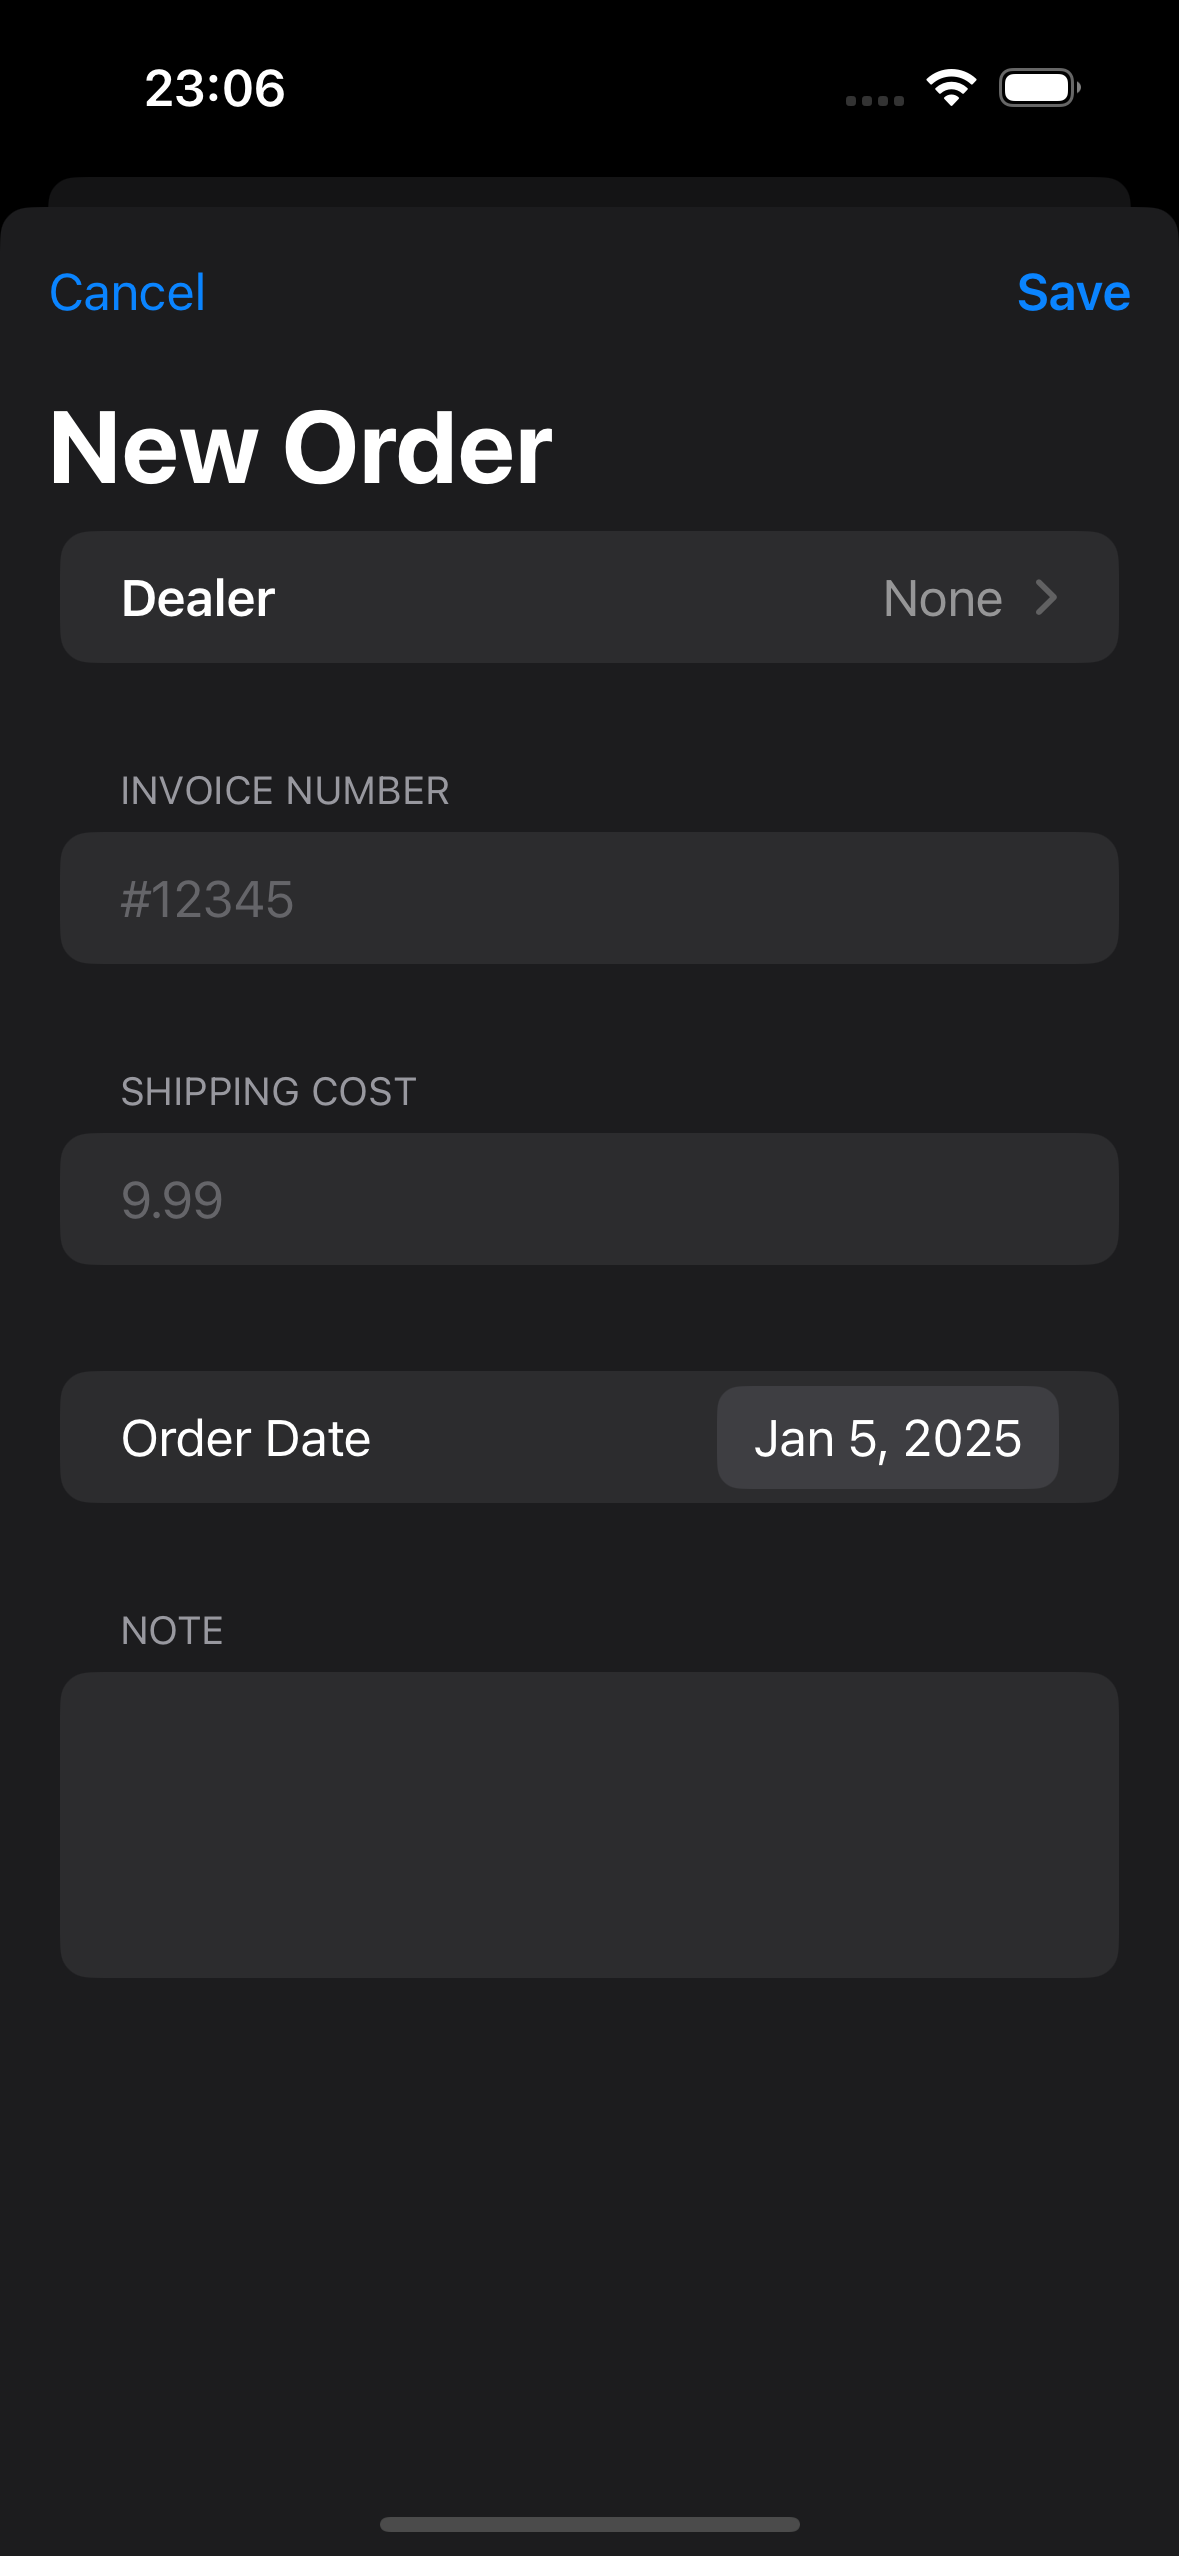
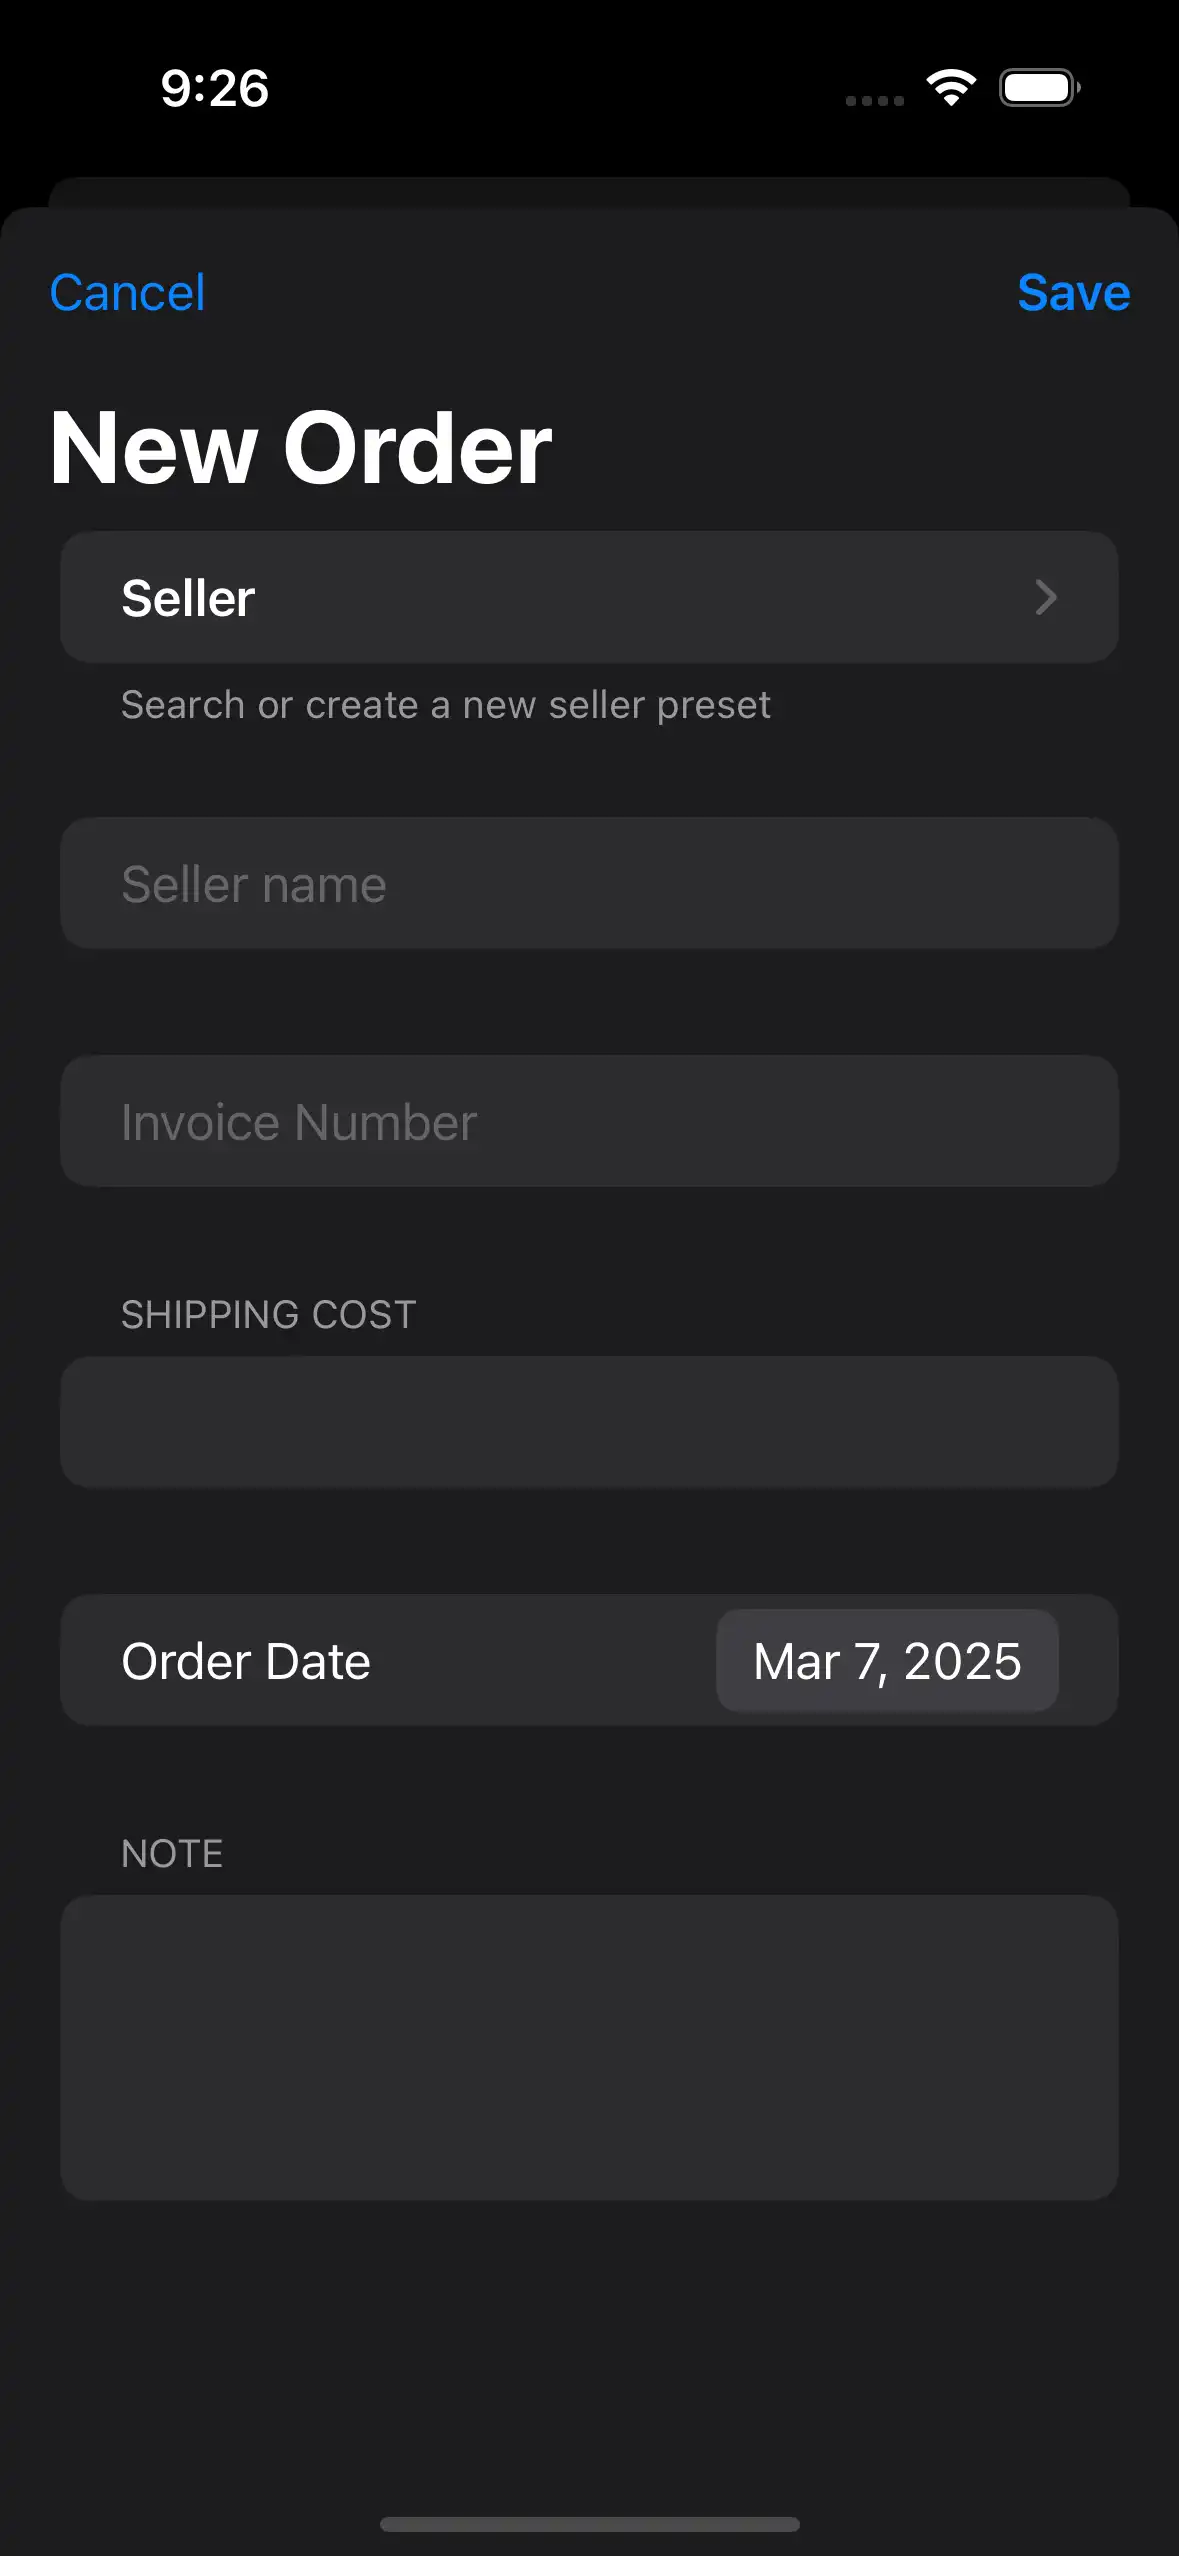
Update create order article

diff --git a/_getting-started/create-order.md b/_getting-started/create-order.md
@@ -14,18 +14,40 @@ layout: article
 
 2) The input page for registering a new order consists of:
 
-* Dealer
+* Seller
 * Invoice number
 * Shipping cost
 * Order date
 * Note
 
-All fields are optional. If you skip them, the order will be creted as New Order with zero shipping cost and today's date. 
+All fields are optional. If you skip them, the order will be creted as New Order with zero shipping cost and today's date. If a seller name is provided instead of selecting one of the presets, a new seller preset will be created with the provided name.
 
 {% include theme-image.html
    data_light="/assets/images/light/create_order_light.webp"
    data_dark="/assets/images/dark/create_order_dark.webp"
    alt="Order input parameters" %}
 
-3) Finally tap on 'Save' to record your order. 
+3) To create a custom seller preset tap on "Seller".
+
+4) In the Sellers screen, tap "+" button to open up the page to create a new seller.
+
+{% include theme-image.html
+   data_light="/assets/images/light/sellers_light.webp"
+   data_dark="/assets/images/dark/sellers_dark.webp"
+   alt="Sellers" %}
+
+5) The input page for registering a new seller consists of:
+
+* Type (Dealer, Individual, Refiner)
+* Name (required)
+* Website/Forum link
+
+{% include theme-image.html
+   data_light="/assets/images/light/create_seller_light.webp"
+   data_dark="/assets/images/dark/create_seller_dark.webp"
+   alt="Create seller" %}
+
+6) Tap on 'Save' to record your seller, and select it to use it in your new order.
+
+7) Finally tap on 'Save' to record your order. 
 

diff --git a/_getting-started/modify-delete-order.md b/_getting-started/modify-delete-order.md
@@ -24,7 +24,7 @@ You can modify or delete orders after they are created. To learn how to create a
 
 3) In case of modification, the input screen for updating an existing order consists of:
 
-* Dealer
+* Seller
 * Invoice number
 * Shipping cost
 * Order date
